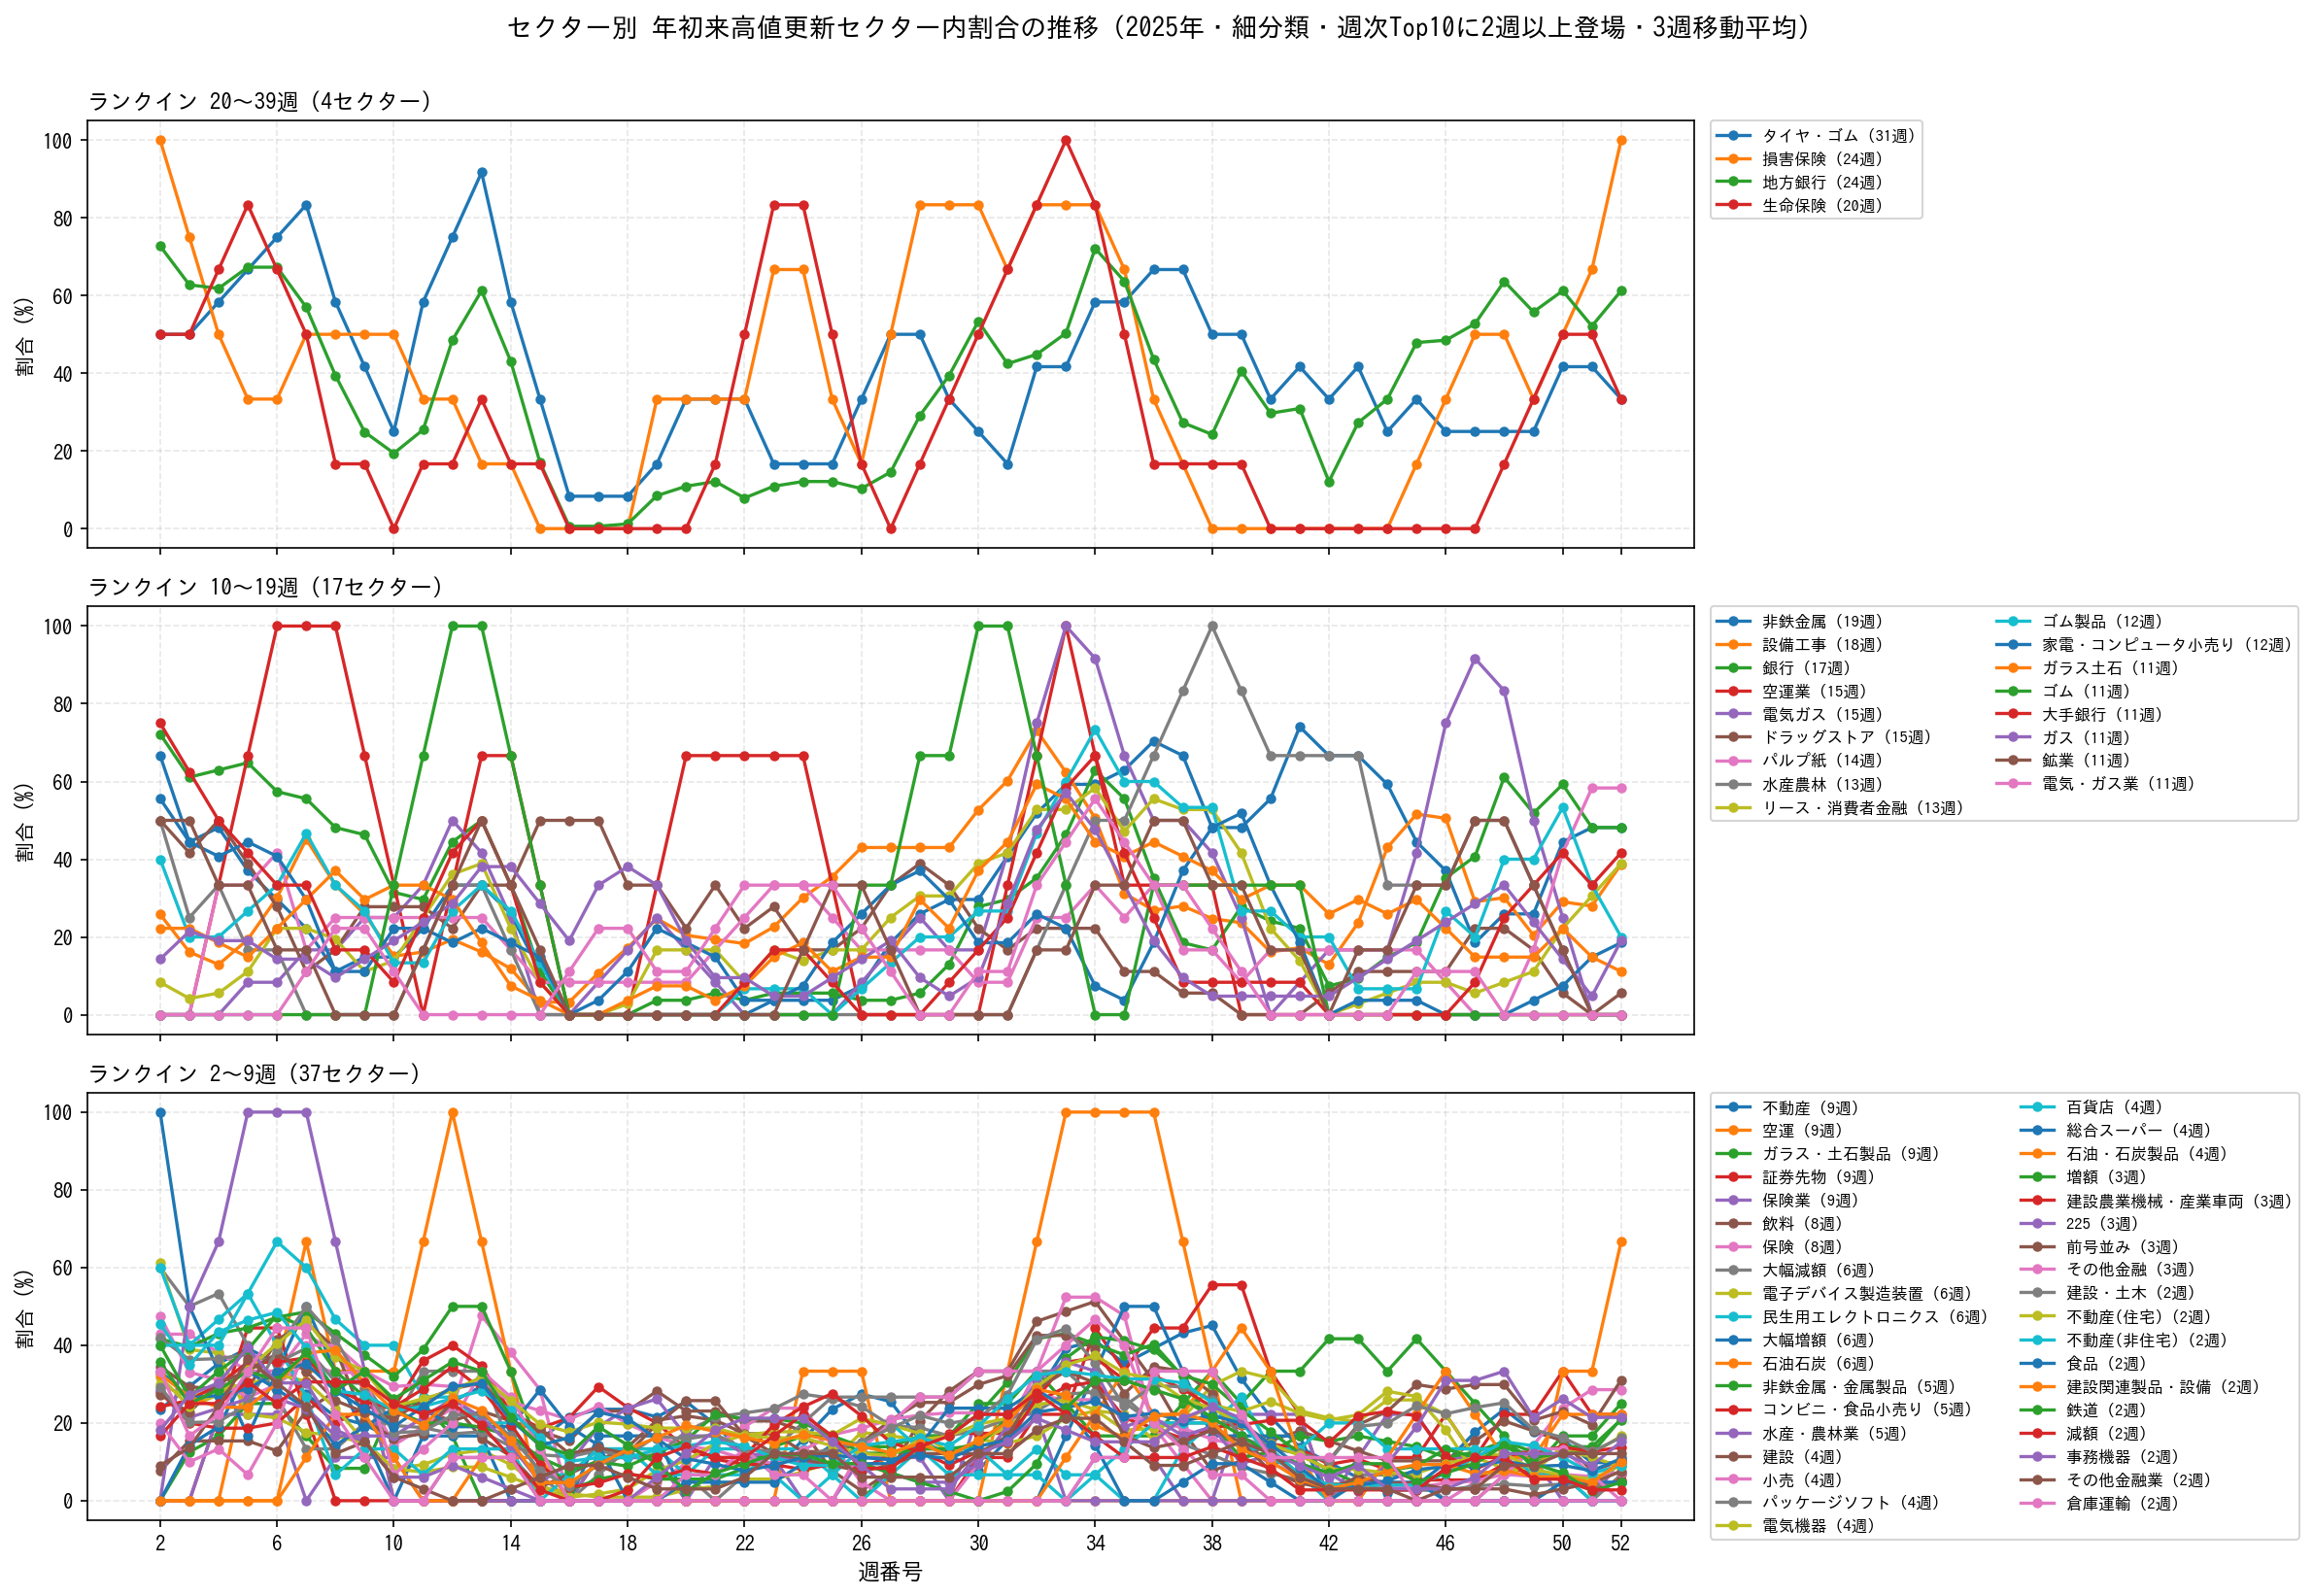
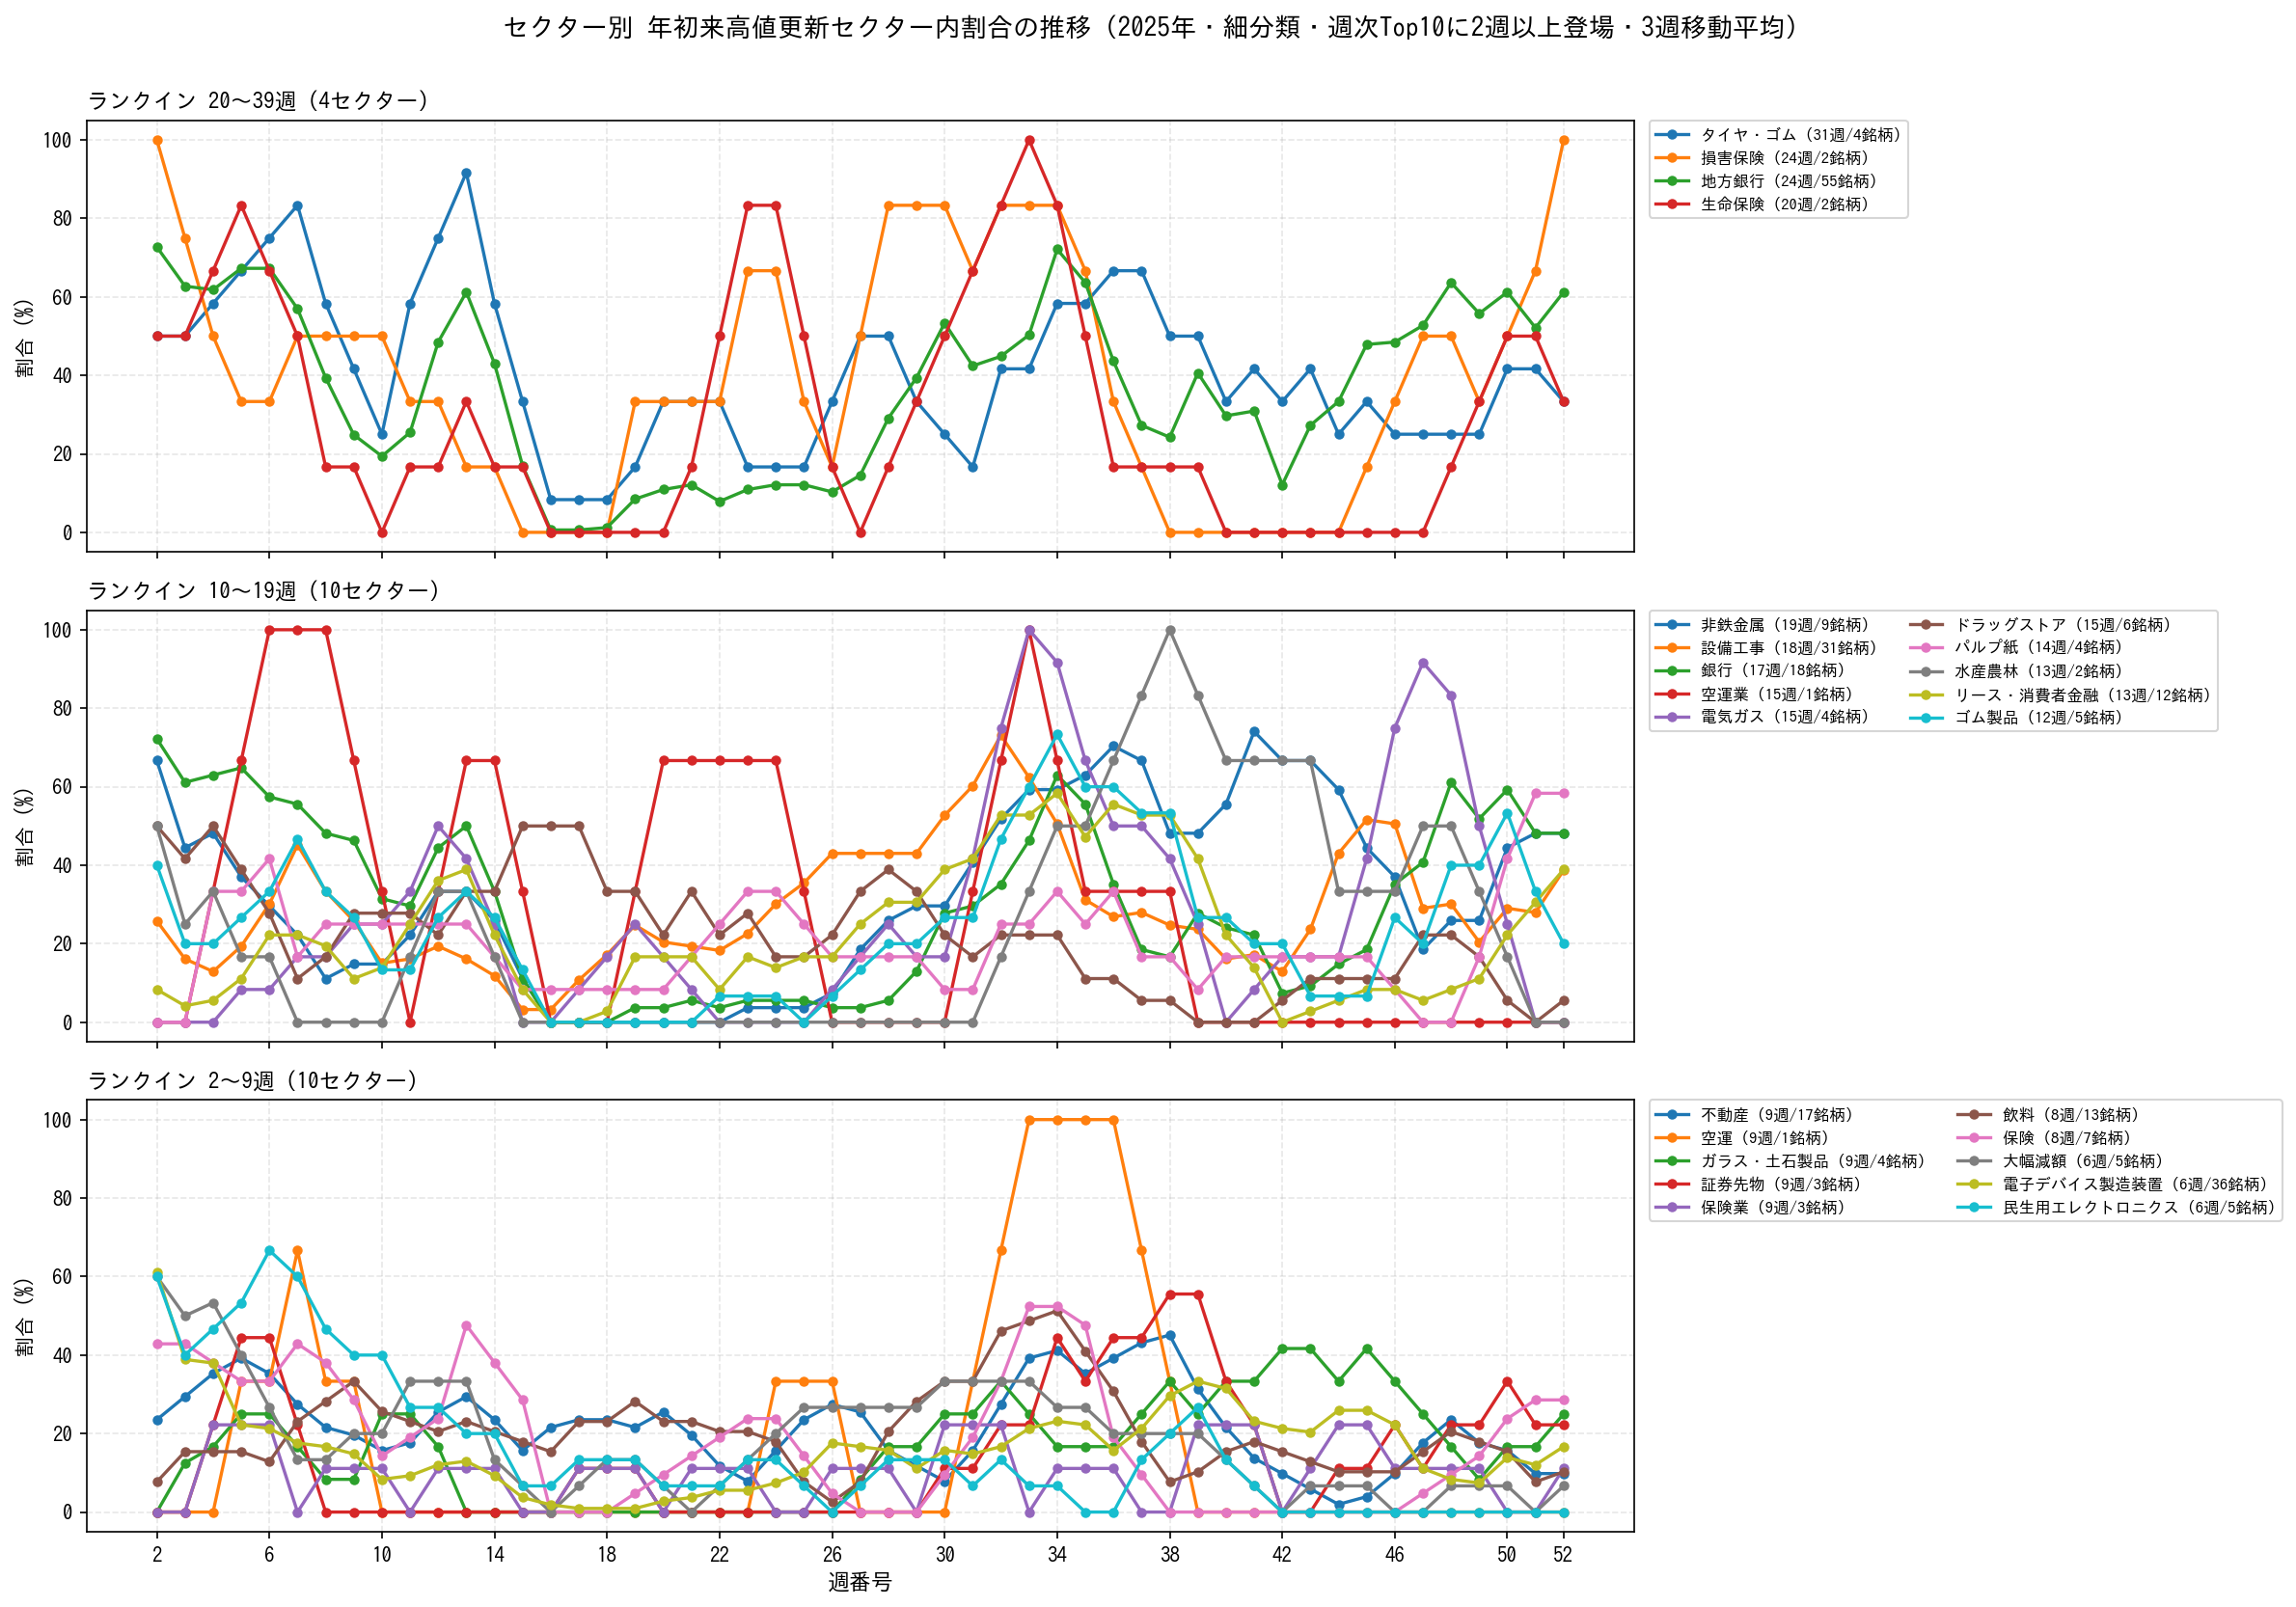
Limit lower buckets to top 10 sectors, show sector size in legend
- Add --bucket-top-n (default: 10) to cap sectors per bucket panel
- Sort bucket members by rank-in weeks descending before truncating
- Legend now shows "(N週/M銘柄)" so sector size is visible

https://claude.ai/code/session_011rtfifD5h5h51NWqFkstZQ

diff --git a/scripts/plot_ytd_high_by_sector.py b/scripts/plot_ytd_high_by_sector.py
@@ -280,6 +280,12 @@ def main() -> int:
         help="バケット境界 (降順, カンマ区切り). デフォルト: '40,20,10,2'",
     )
     parser.add_argument(
+        "--bucket-top-n",
+        type=int,
+        default=10,
+        help="各バケット内で表示するセクター数の上限 (0=制限なし、デフォルト: 10)",
+    )
+    parser.add_argument(
         "--output",
         type=Path,
         default=None,
@@ -502,6 +508,10 @@ def main() -> int:
             # 既に上位バケットに含まれているものを除外 (累積にならないように)
             used = {s for _, lst in buckets for s in lst}
             members = [m for m in members if m not in used]
+            # ランクイン週数降順でソートし、上限で切る
+            members.sort(key=lambda s: -top_n_counts.get(s, 0))
+            if args.bucket_top_n > 0 and len(members) > args.bucket_top_n:
+                members = members[: args.bucket_top_n]
             if members:
                 buckets.append((label, members))
 
@@ -521,6 +531,11 @@ def main() -> int:
             cmap = plt.get_cmap("tab10")
             for ax_i, (label, members) in zip(axes, buckets):
                 for j, sec in enumerate(members):
+                    n_size = sector_size.get(sec, 0)
+                    if use_japanese:
+                        leg = f"{sec} ({top_n_counts.get(sec, 0)}週/{n_size}銘柄)"
+                    else:
+                        leg = f"{sec} ({top_n_counts.get(sec, 0)}w/{n_size})"
                     ax_i.plot(
                         plot_display.index,
                         plot_display[sec],
@@ -528,9 +543,7 @@ def main() -> int:
                         marker="o",
                         markersize=4,
                         linewidth=1.6,
-                        label=f"{sec} ({top_n_counts.get(sec, 0)}週)"
-                        if use_japanese else
-                        f"{sec} ({top_n_counts.get(sec, 0)}w)",
+                        label=leg,
                     )
                 bucket_title = (
                     f"ランクイン {label} ({len(members)}セクター)"